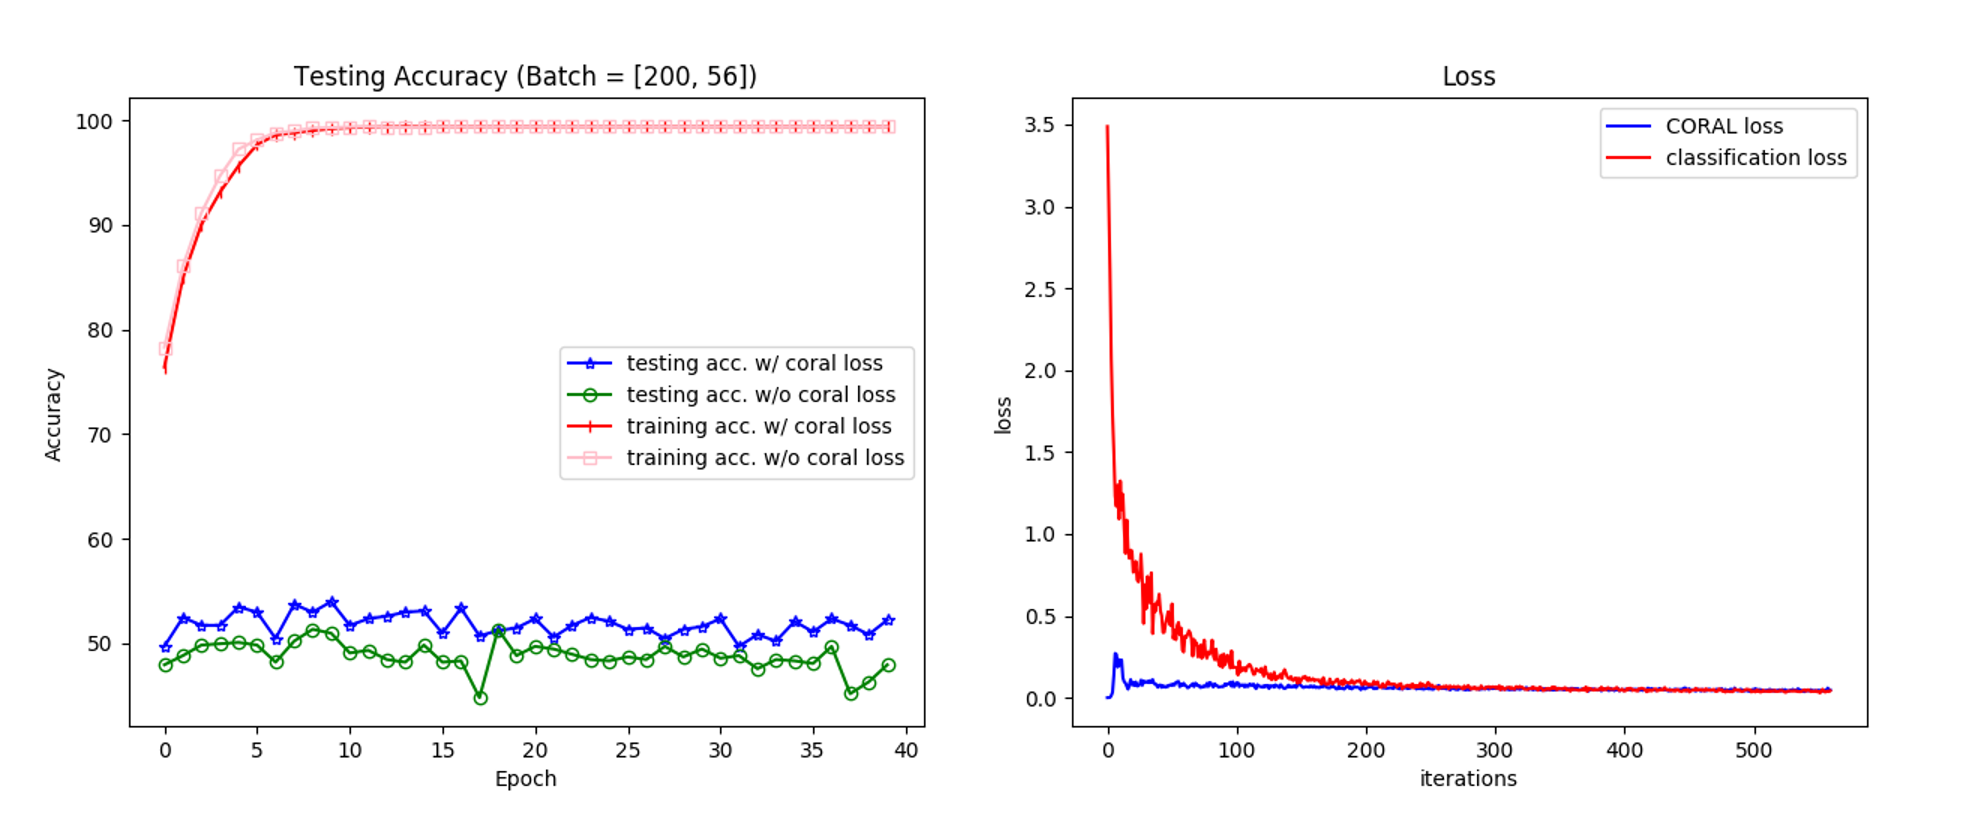
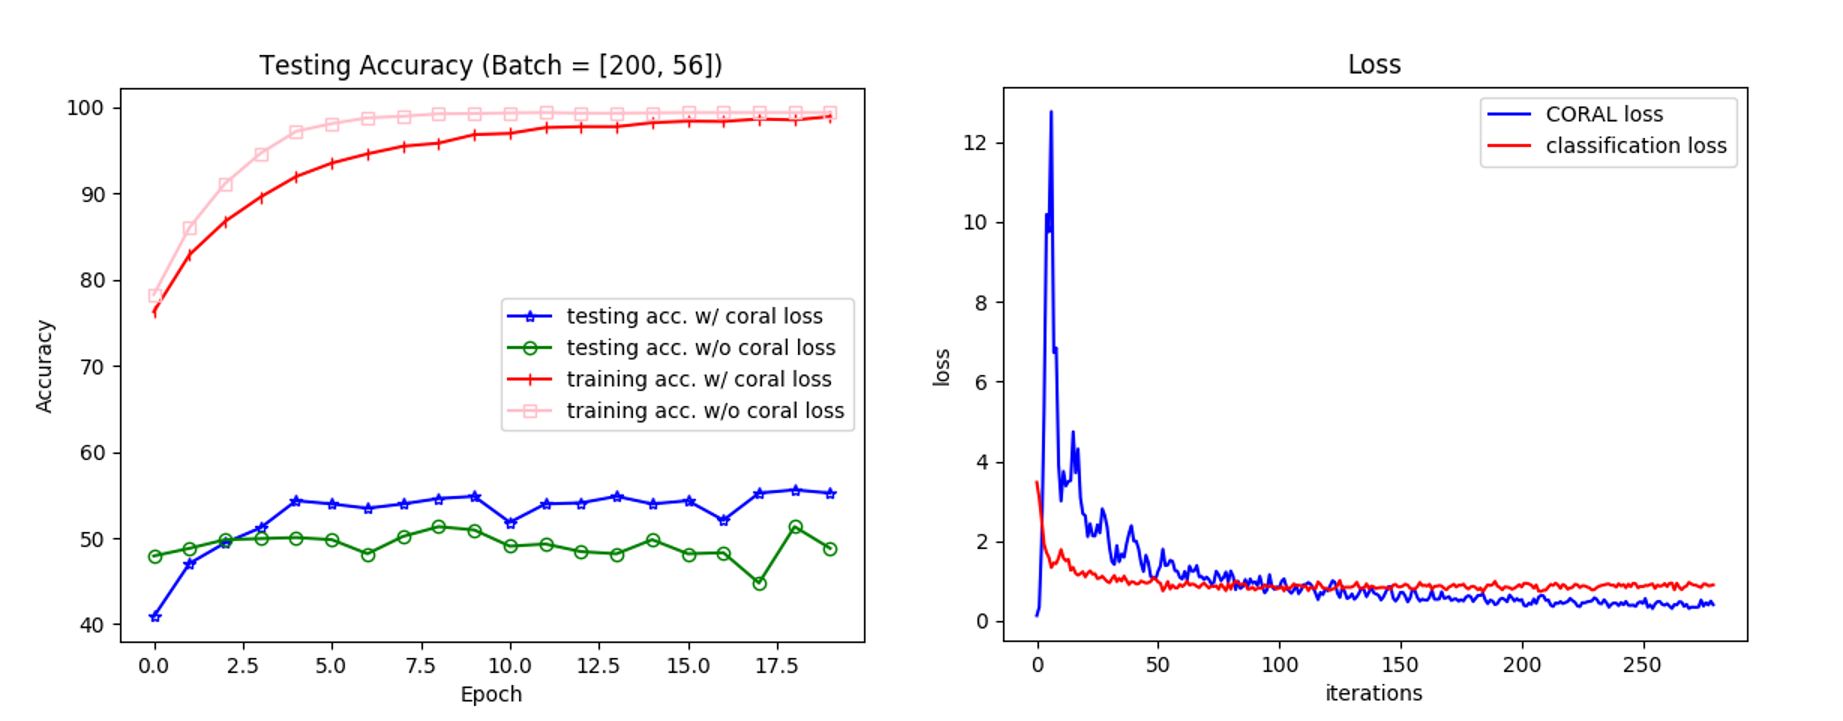
better accuracy close #2 #4 #6

diff --git a/models.py b/models.py
@@ -5,52 +5,27 @@ from torch.autograd import Function, Variable
 CUDA = True if torch.cuda.is_available() else False
 
 
-def feature_covariance_mat(n, d):
-    ones_t = torch.ones(n).view(1, -1)
-    if CUDA:
-        ones_t = ones_t.cuda()
-
-    tmp = ones_t.matmul(d)
-    covariance_mat = (d.t().matmul(d) - (tmp.t().matmul(tmp) / n)) / (n - 1)
-    return covariance_mat
-
-
-def forbenius_norm(mat):
-    return (mat**2).sum()**0.5
-
-
 '''
 MODELS
 '''
 
 
-class CORAL(Function):
-    def forward(self, source, target):
-        d = source.shape[1]
-        ns, nt = source.shape[0], target.shape[0]
-        cs = feature_covariance_mat(ns, source)
-        ct = feature_covariance_mat(nt, target)
+def CORAL(source, target):
+    d = source.data.shape[1]
 
-        self.saved = (source, target, cs, ct, ns, nt, d)
+    # source covariance
+    xm = torch.mean(source, 1, keepdim=True) - source
+    xc = torch.matmul(torch.transpose(xm, 0, 1), xm)
 
-        res = forbenius_norm(cs - ct)**2/(4*d*d)
-        res = torch.FloatTensor([res])
+    # target covariance
+    xmt = torch.mean(target, 1, keepdim=True) - target
+    xct = torch.matmul(torch.transpose(xmt, 0, 1), xmt)
 
-        return res if CUDA is False else res.cuda()
+    # frobenius norm between source and target
+    loss = torch.mean(torch.mul((xc - xct), (xc - xct)))
+    loss = loss/(4*d*4)
 
-    def backward(self, grad_output):
-        source, target, cs, ct, ns, nt, d = self.saved
-        ones_s_t = torch.ones(ns).view(1, -1)
-        ones_t_t = torch.ones(nt).view(1, -1)
-        if CUDA:
-            ones_s_t = ones_s_t.cuda()
-            ones_t_t = ones_t_t.cuda()
-
-        s_gradient = (source.t() - (ones_s_t.matmul(source).t().matmul(ones_s_t)/ns)).t().matmul(cs - ct) / (d*d*(ns - 1))
-        t_gradient = (target.t() - (ones_t_t.matmul(target).t().matmul(ones_t_t)/nt)).t().matmul(cs - ct) / (d*d*(nt - 1))
-        t_gradient = -t_gradient
-
-        return s_gradient*grad_output, t_gradient*grad_output
+    return loss
 
 
 class DeepCORAL(nn.Module):

diff --git a/main.py b/main.py
@@ -14,7 +14,7 @@ LEARNING_RATE = 1e-3
 WEIGHT_DECAY = 5e-4
 MOMENTUM = 0.9
 BATCH_SIZE = [200, 56]
-EPOCHS = 10
+EPOCHS = 20
 
 
 source_loader = get_office31_dataloader(case='amazon', batch_size=BATCH_SIZE[0])
@@ -45,8 +45,7 @@ def train(model, optimizer, epoch, _lambda):
         out1, out2 = model(source_data, target_data)
 
         classification_loss = torch.nn.functional.cross_entropy(out1, source_label)
-        coral = models.CORAL()
-        coral_loss = coral(out1, out2)
+        coral_loss = models.CORAL(out1, out2)
 
         sum_loss = _lambda*coral_loss + classification_loss
         sum_loss.backward()
